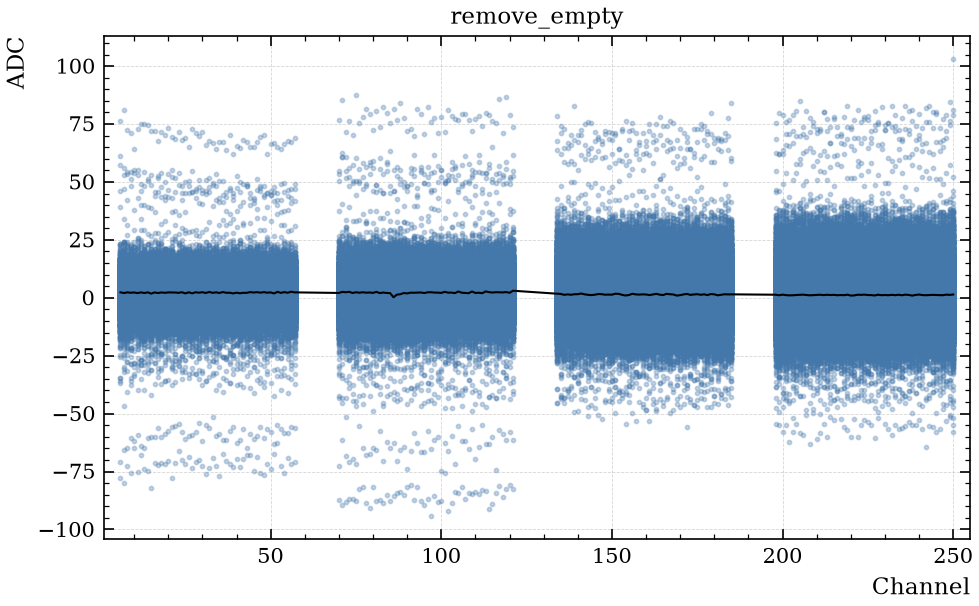
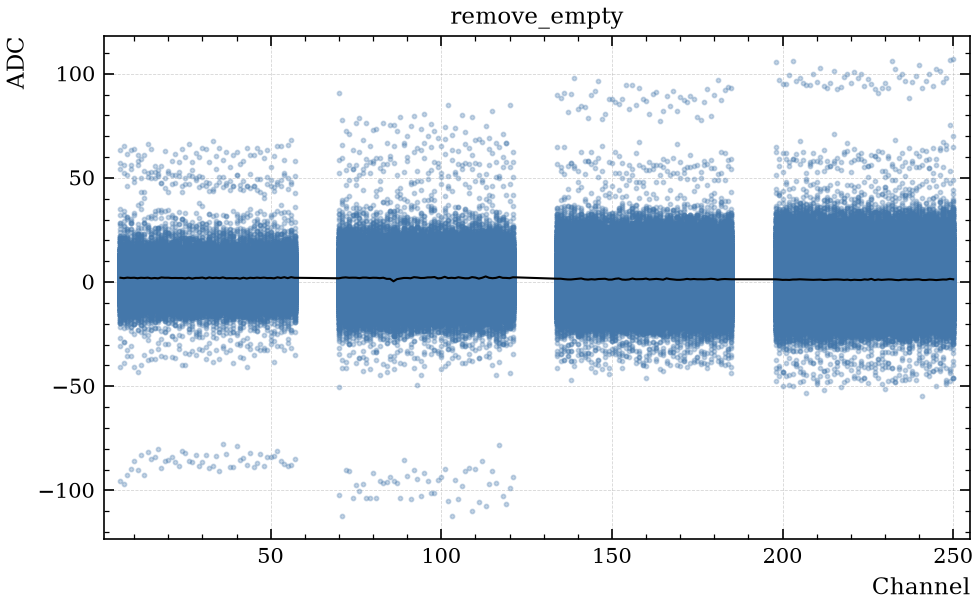
ana

diff --git a/knife-edge.py b/knife-edge.py
@@ -16,19 +16,23 @@ from scipy.optimize import OptimizeWarning
 from base_analysis import BaseAnalysis, isdir
 from fits import edge
 
+ADC_CLEAN = "adc_clean"   # per run and channel: value = mean ADC, error = its standard error
 INTEGRALS = "integrals"   # integral over runs and channels: value = mean integral value, error = SEM
 
 
 class KnifeEdge(BaseAnalysis):
     CACHE_TAG = "knife_edge"
     CACHE_VERSION = 1
-    QUANTITIES = (INTEGRALS,)
+    QUANTITIES = (ADC_CLEAN, INTEGRALS,)
     # plot() writes ch_to_x to the config, so a change of it must not count as a new setting here
     PLOT_KEYS = BaseAnalysis.PLOT_KEYS + ("ch_to_x",)
 
     # One file with x triggers
     # Return the average over triggers
     def process(self, df: pd.DataFrame, df_id: int, z: float, x: float) -> None:
+        # ADC MEAN PER CHANNEL
+        mean_per_channel = df.groupby("channel")["adc_clean"].agg(value="mean", error="sem").reset_index()
+        self.add(ADC_CLEAN, mean_per_channel, z=z, x=x, voltage=df["voltage"].iloc[0])
 
         window = df["channel"].between(self.cfg.chmin, self.cfg.chmax)
         per_run = df[window].groupby("run")["adc_clean"].sum().to_numpy(dtype=float, na_value=np.nan)
@@ -43,14 +47,11 @@ class KnifeEdge(BaseAnalysis):
     def plot(self) -> None:
         # Define subdirs
         fitdir = isdir(self.plotdir / "fits")
-        hitsdir = isdir(self.plotdir / "hits")
-        adcdir = isdir(self.plotdir / "adc")
 
         """" --------------- HITS PLOTS ---------------"""
         sigmas = {}
 
         d = self.get(INTEGRALS)
-        print(d)
         d = d.astype({"x": float, "z": float, "value": float, "error": float,"voltage": float})
         adc_x = d.pivot_table(index="x", columns="z", values="value", aggfunc="mean")
         err_x = d.pivot_table(index="x", columns="z", values="error", aggfunc="mean")
@@ -93,17 +94,53 @@ class KnifeEdge(BaseAnalysis):
                         popt[2] < 1.01e-4 or popt[2] > 0.99 * np.ptp(xs)
                         or popt[1] <= xs.min() or popt[1] >= xs.max())
                     if not np.all(np.isfinite(pcov)) or at_bound or chi2 > 10:
+                        sigmas[z] = (np.nan, np.nan)
                         raise ValueError(f"rejected fit, chi2/ndf = {chi2:.1f}, params {popt}")
                     sigmas[z] = (abs(popt[2]), abs(pcov[2][2]))
                     xf = np.linspace(xs.min(), xs.max(), 200)
                     ax.plot(xf, edge(xf, *popt))
             except (RuntimeError, RuntimeWarning, OptimizeWarning, ValueError) as err:
+                sigmas[z] = (np.nan, np.nan)
                 print(f"z = {z}, fit of edge failed with {err}")
             ax.set_xlabel("Position in x [mm]")
             ax.set_ylabel("Integral over channels")
             ax.legend()
             fig.savefig(fitdir / f"knife_edge_scan_z_{z}.png", dpi=150)
             plt.close(fig)
+
+        zs = np.array(sorted(sigmas), dtype=float)
+        sig = np.array([sigmas[z][0] for z in sorted(sigmas)], dtype=float)
+        err = np.array([sigmas[z][1] for z in sorted(sigmas)], dtype=float)
+        fig, ax_zs = plt.subplots(1,1)
+        ax_zs.errorbar(zs, 1000 * sig, yerr = 1000 * err, fmt="o")
+        try:
+            with warnings.catch_warnings():
+                warnings.simplefilter("error", RuntimeWarning)
+                warnings.simplefilter("error", OptimizeWarning)
+                coefs, cov = np.polyfit(zs, sig, 2, cov=True)
+                residuals = sig - np.polyval(coefs, zs)
+                mad = np.median(np.abs(residuals - np.median(residuals)))
+                mask = np.abs(residuals) < 3 * 1.4826 * mad
+                coefs, _ = np.polyfit(zs[mask], sig[mask], 2, cov=True)
+                x = np.linspace(min(zs), max(zs), 100)
+                yfit = np.polyval(coefs, x)
+                ax_zs.plot(x, 1000 * yfit, label = rf"2nd order poly fit with $\sigma_{{\mathrm{{min}}}} = {1000 * yfit.min():.2f}$ µm")
+        except (RuntimeError, RuntimeWarning, OptimizeWarning, ValueError) as err:
+            print(f"Fit of sigmas failed with {err}")
+        ax_zs.set_xlabel("Position in z [mm]")
+        ax_zs.set_ylabel(rf"Edge fit $\sigma$ [µm]")
+        ax_zs.set_title("Knife-edge scan")
+        fig.savefig(self.plotdir / "sigma_vs_z.png", dpi=150)
+        plt.close()
+
+        # Compare to ADC
+        d = self.get(ADC_CLEAN)
+        # Average over the runs for each channel
+        d = d.astype({"x": float, "channel": float, "value": float, "error": float, "z": float, "voltage": float})
+
+        adc_x = d.pivot_table(index="x", columns="channel", values="value", aggfunc="mean")
+        err_x = d.pivot_table(index="x", columns="channel", values="error", aggfunc="mean")
+        err_x = err_x.reindex(index=adc_x.index, columns=adc_x.columns)
 
 
         

diff --git a/base_analysis.py b/base_analysis.py
@@ -97,6 +97,7 @@ class BaseAnalysis(ABC):
         "allowance": 5,
         "pitch": 0.055,
         "ch_to_x": {},          # channel -> x position [mm], saved by the x-scan with update_config()
+        "eta_neighbours": 3,
         "chmin": 0,
         "chmax": 256,
         "time_threshold": 18,   # ADC threshold of the delay search
@@ -120,7 +121,8 @@ class BaseAnalysis(ABC):
                                    "use_default_delay", "zmin", "zmax")
     # Keys that only plot() or the data reading uses. A change recomputes nothing.
     # Every other key is assumed to be used by process(), so a change runs process() again.
-    PLOT_KEYS: tuple[str, ...] = ("pitch", "style", "plot_run", "chunk_size", "xmin", "xmax")
+    PLOT_KEYS: tuple[str, ...] = ("pitch", "style", "plot_run", "chunk_size", "xmin", "xmax",
+                                  "eta_neighbours")
 
     # Names of the quantities stored in self.results, e.g. QUANTITIES = (MEAN_ADC, FIT_SIGMA)
     QUANTITIES: tuple[str, ...] = ()

diff --git a/x-scan.py b/x-scan.py
@@ -162,6 +162,11 @@ class XScan(BaseAnalysis):
         adc_clean.loc[bad] = np.nan
         err_clean.loc[bad] = np.nan
 
+        # Drop Nans
+        ok = adc_clean.notna().all(axis=1)
+        adc_clean = adc_clean.loc[ok]
+        err_clean = err_clean.loc[ok]
+
         self.plot_adc(adc_clean, err_clean, active, visible, title, adcdir / "adc_vs_channel_clean.png")
 
         # Charge fractions need the absolute values, not the per-channel normalized ones
@@ -191,7 +196,10 @@ class XScan(BaseAnalysis):
         frac = {}
         err_frac = {}
         for ch in active:
-            cols = [ch - 2, ch - 1, ch, ch + 1, ch + 2]
+            cols = [c for c in np.linspace(
+                ch-self.cfg.eta_neighbours, 
+                ch+self.cfg.eta_neighbours, 
+                num=(2 * self.cfg.eta_neighbours + 1))]
             q = charge.reindex(columns=cols)
             e = charge_err.reindex(columns=cols)
 
